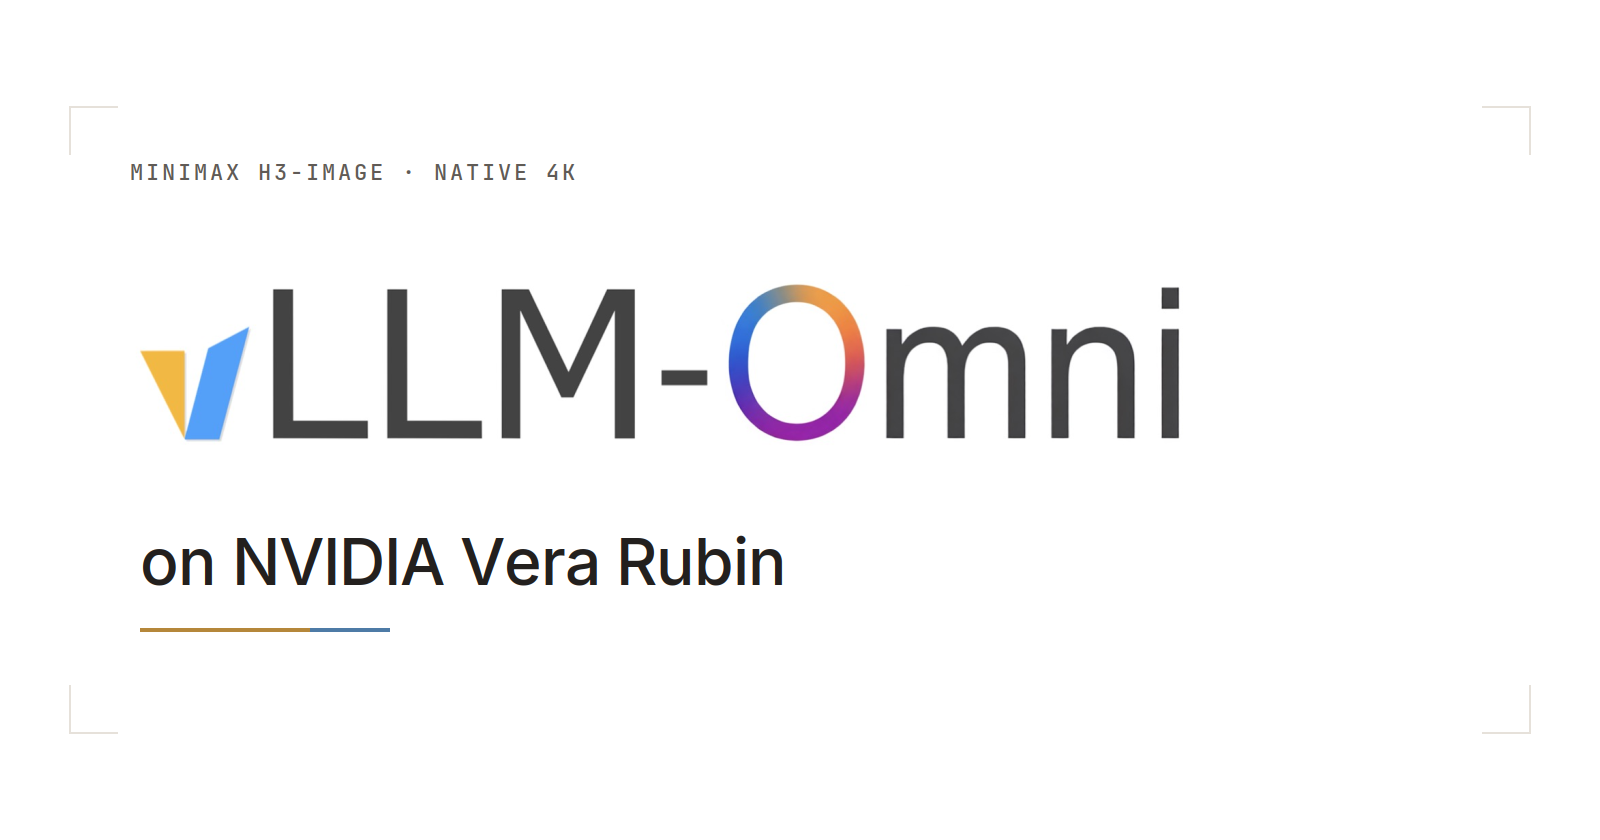
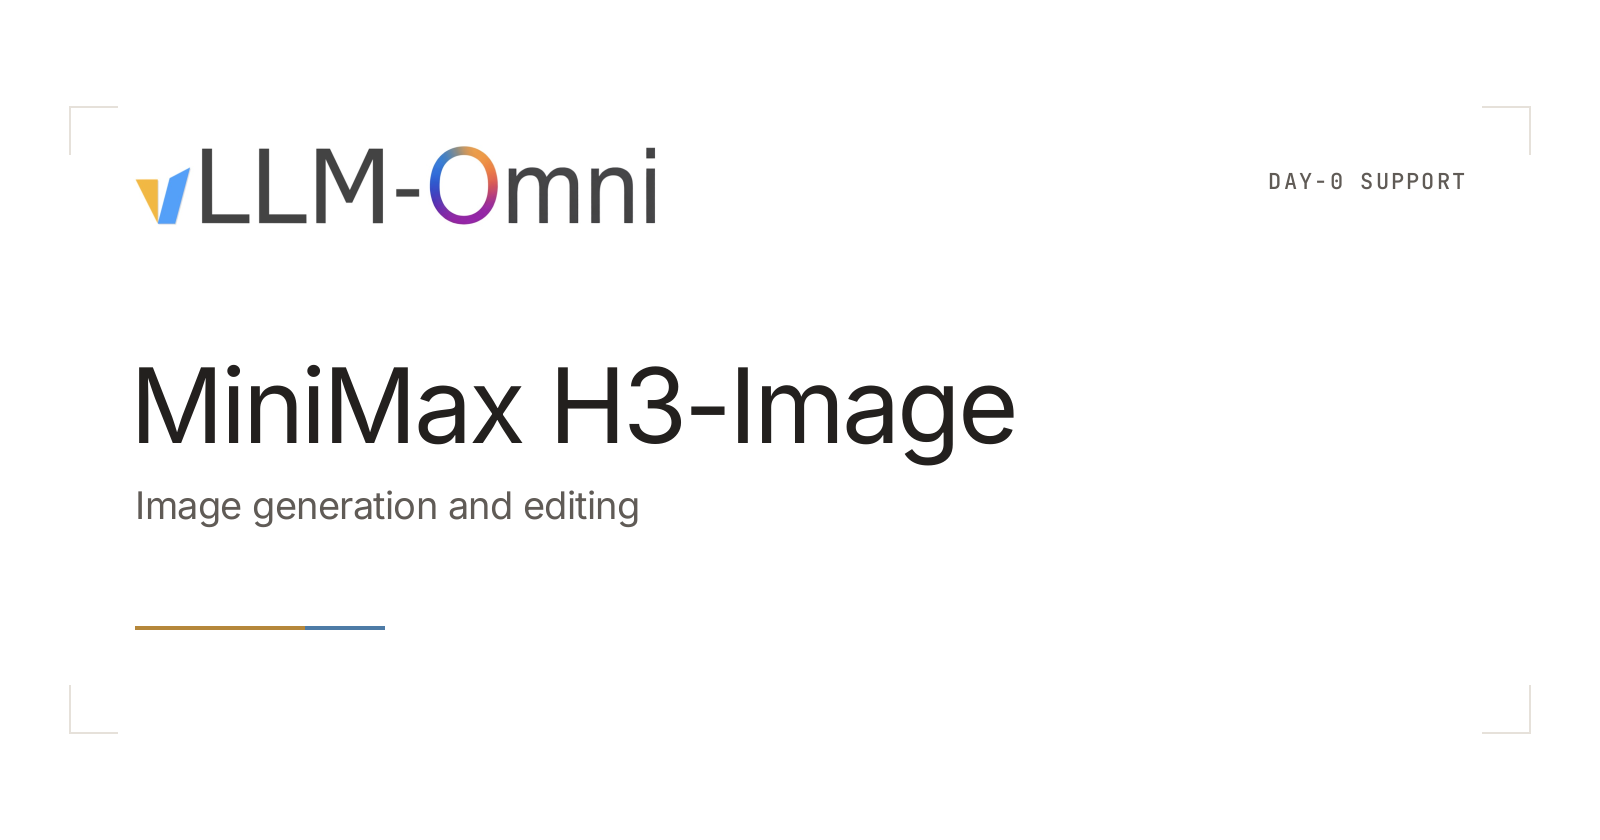
Retheme the H3-Image cover for Day-0 support

diff --git a/_posts/2026-11-10-minimax-h3-image-rubin.md b/_posts/2026-11-10-minimax-h3-image-rubin.md
@@ -12,7 +12,7 @@ tags:
   - performance
 ---
 
-![vLLM-Omni on Vera Rubin.](/assets/figures/minimax-h3-image-rubin/social-preview.png)
+![Day-0 support for MiniMax H3-Image in vLLM-Omni.](/assets/figures/minimax-h3-image-rubin/social-preview.png)
 
 [vLLM now supports NVIDIA Vera Rubin NVL72](https://vllm.ai/blog/2026-10-09-vera-rubin-preview).
 With the release of [MiniMax H3-Image](https://huggingface.co/MiniMaxAI/MiniMax-H3-Image),
